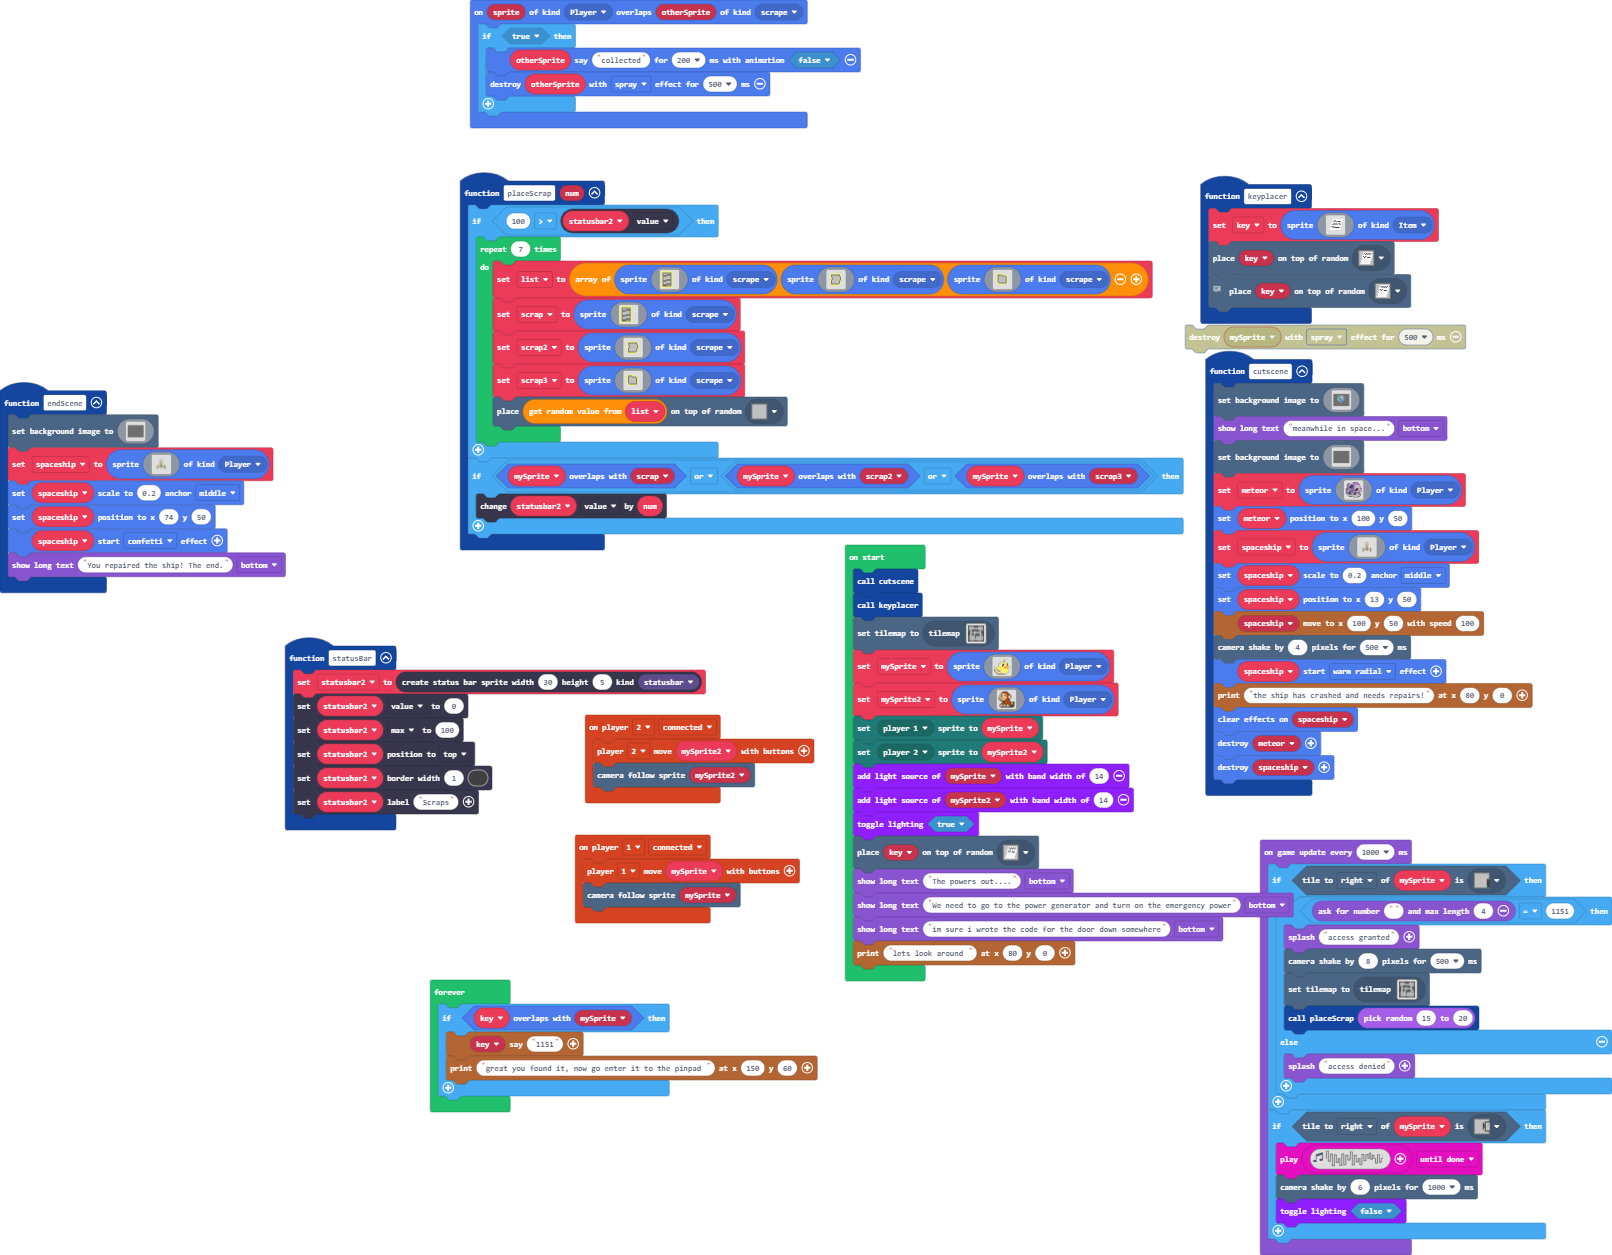
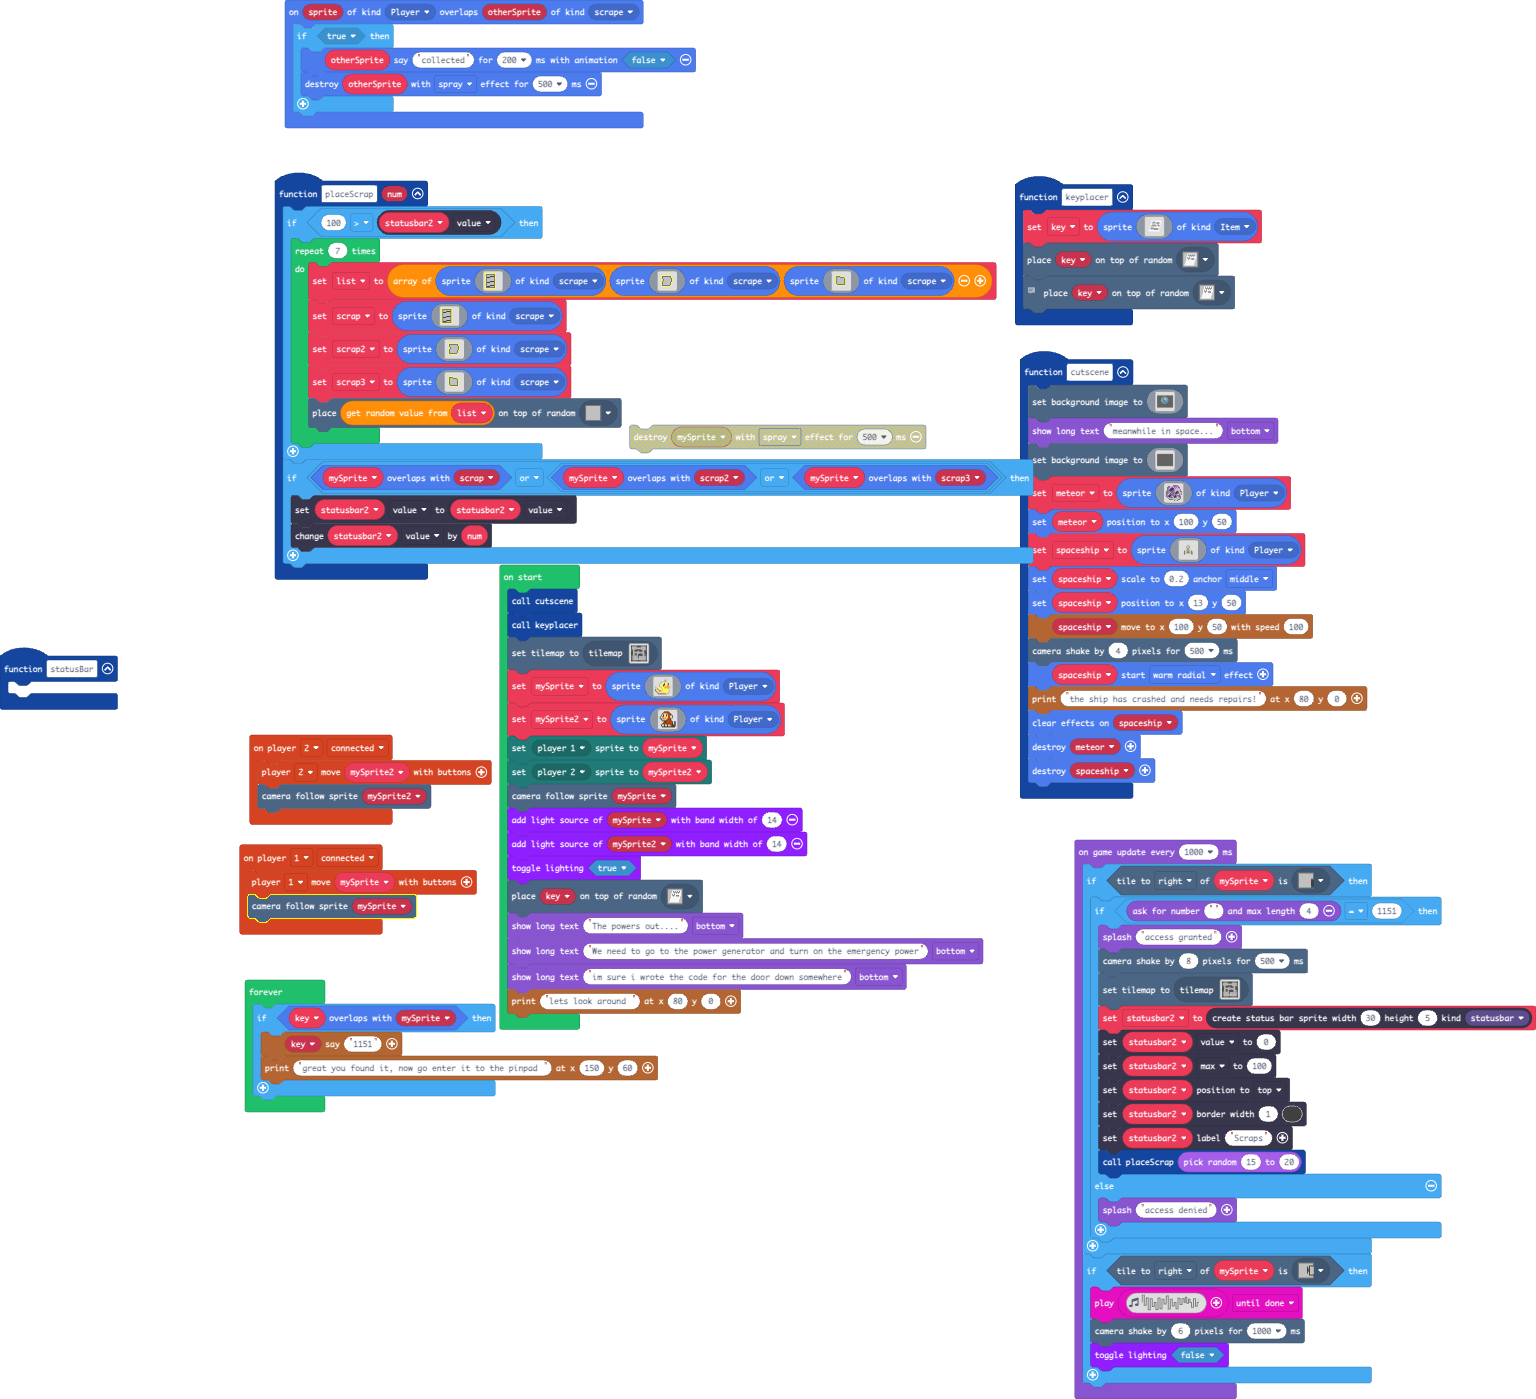
Restore '1/26/2024, 3:38:51 PM Update main.blocks, main.ts'

diff --git a/main.ts b/main.ts
@@ -6,14 +6,6 @@ namespace SpriteKind {
 namespace StatusBarKind {
     export const statusbar = StatusBarKind.create()
 }
-function endScene () {
-    scene.setBackgroundImage(assets.image`space`)
-    spaceship = sprites.create(assets.image`ship`, SpriteKind.Player)
-    spaceship.setScale(0.2, ScaleAnchor.Middle)
-    spaceship.setPosition(74, 50)
-    spaceship.startEffect(effects.confetti)
-    game.showLongText("You repaired the ship! The end.", DialogLayout.Bottom)
-}
 function statusBar () {
     statusbar2 = statusbars.create(30, 5, StatusBarKind.statusbar)
     statusbar2.value = 0
@@ -100,6 +92,7 @@ function placeScrap (num: number) {
         }
     }
     if (mySprite.overlapsWith(scrap) || (mySprite.overlapsWith(scrap2) || mySprite.overlapsWith(scrap3))) {
+        statusbar2.value = statusbar2.value
         statusbar2.value += num
     }
 }
@@ -111,9 +104,9 @@ let scrap3: Sprite = null
 let scrap2: Sprite = null
 let scrap: Sprite = null
 let list: Sprite[] = []
+let spaceship: Sprite = null
 let meteor: Sprite = null
 let statusbar2: StatusBarSprite = null
-let spaceship: Sprite = null
 let key: Sprite = null
 let mySprite2: Sprite = null
 let mySprite: Sprite = null
@@ -141,6 +134,7 @@ mySprite2 = sprites.create(img`
     `, SpriteKind.Player)
 mp.setPlayerSprite(mp.playerSelector(mp.PlayerNumber.One), mySprite)
 mp.setPlayerSprite(mp.playerSelector(mp.PlayerNumber.Two), mySprite2)
+scene.cameraFollowSprite(mySprite)
 multilights.addLightSource(mySprite, 14)
 multilights.addLightSource(mySprite2, 14)
 multilights.toggleLighting(true)
